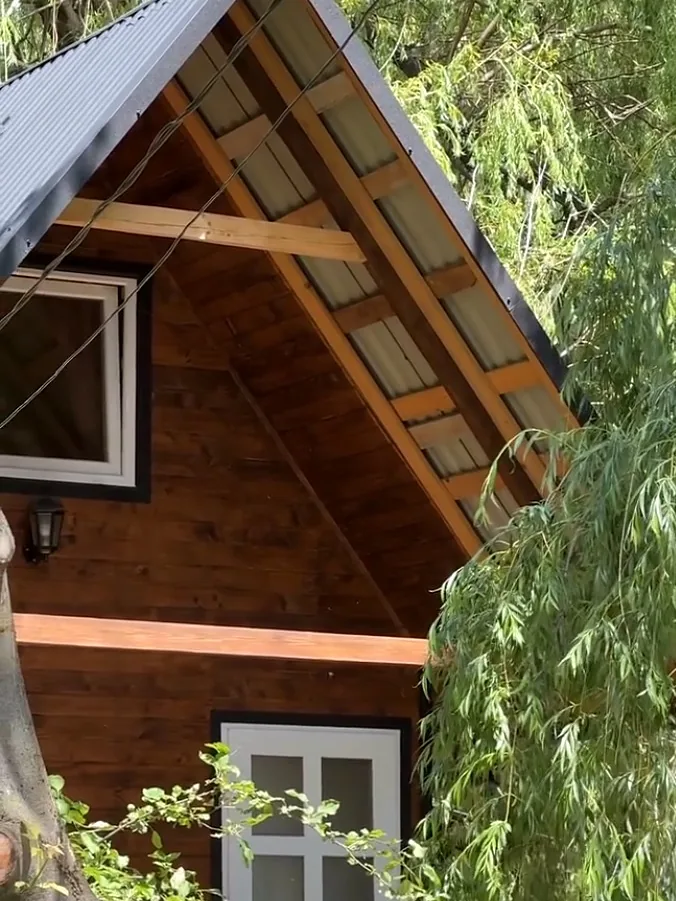
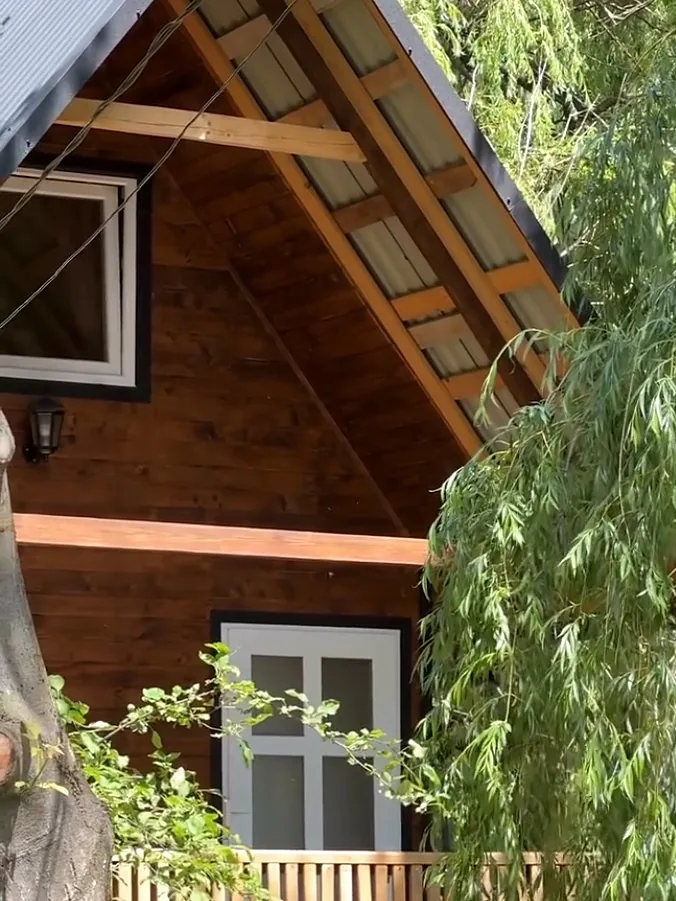
Котедж з Instagram: кадр з дверима і ґанком

diff --git a/index.html b/index.html
@@ -1098,7 +1098,7 @@ body{background:#F3F5F7}
         </div>
       </article>
       <article class="season">
-        <img width="676" height="901" src="img/kotedzh3-v.webp" alt="Котедж під вербами: гостроверхий дах, біле вікно і дерев&#x27;яна огорожа ґанку" loading="lazy" decoding="async" style="object-position:8% 50%">
+        <img width="676" height="901" src="img/kotedzh3-v.webp" alt="Котедж під вербами: гостроверхий дах, біле вікно і дерев&#x27;яна огорожа ґанку" loading="lazy" decoding="async" style="object-position:55% 50%">
         <span class="chip">Фото садиби</span>
         <div class="season__body">
           <h3>Котедж біля ставка</h3>
@@ -1277,7 +1277,6 @@ body{background:#F3F5F7}
       <button class="gal__i js-lb" type="button" data-cap="Стежка вздовж будиночків під вербами, дерев&#x27;яна гойдалка, фото садиби"><img width="1200" height="900" src="img/stezhka-h.webp" alt="Стежка вздовж будиночків під вербами, дерев&#x27;яна гойдалка" loading="lazy" decoding="async"></button>
       <button class="gal__i js-lb" type="button" data-cap="Номер у садибі: дерев&#x27;яні стіни, двоспальне ліжко, крісло і телевізор, фото садиби"><img width="1200" height="900" src="img/nomer-h.webp" alt="Номер у садибі: дерев&#x27;яні стіни, двоспальне ліжко, крісло і телевізор" loading="lazy" decoding="async"></button>
       <button class="gal__i js-lb" type="button" data-cap="Мангал під навісом біля ставка, у тіні верби, фото садиби"><img width="676" height="507" src="img/mangal-h.webp" alt="Мангал під навісом біля ставка, у тіні верби" loading="lazy" decoding="async"></button>
-      <button class="gal__i js-lb" type="button" data-cap="Дерев&#x27;яний місток уздовж ставка до альтанки на воді, фото садиби"><img width="676" height="507" src="img/mistok-h.webp" alt="Дерев&#x27;яний місток уздовж ставка до альтанки на воді" loading="lazy" decoding="async"></button>
       <button class="gal__i js-lb" type="button" data-cap="Індокачка на ставку під вербою, фото садиби"><img width="720" height="540" src="img/kachka-h.webp" alt="Індокачка на ставку під вербою" loading="lazy" decoding="async"></button>
       <button class="gal__i js-lb" type="button" data-cap="Котедж біля ставка: вхід з ґанком і дерев&#x27;яною огорожею, фото садиби"><img width="1200" height="900" src="img/kotedzh-2-h.webp" alt="Котедж біля ставка: вхід з ґанком і дерев&#x27;яною огорожею" loading="lazy" decoding="async"></button>
       <button class="gal__i js-lb" type="button" data-cap="Невеликий басейн з плиткою і каменем, щоб охолонути після парної, фото садиби"><img width="1200" height="900" src="img/kupil-h.webp" alt="Невеликий басейн з плиткою і каменем, щоб охолонути після парної" loading="lazy" decoding="async"></button>
